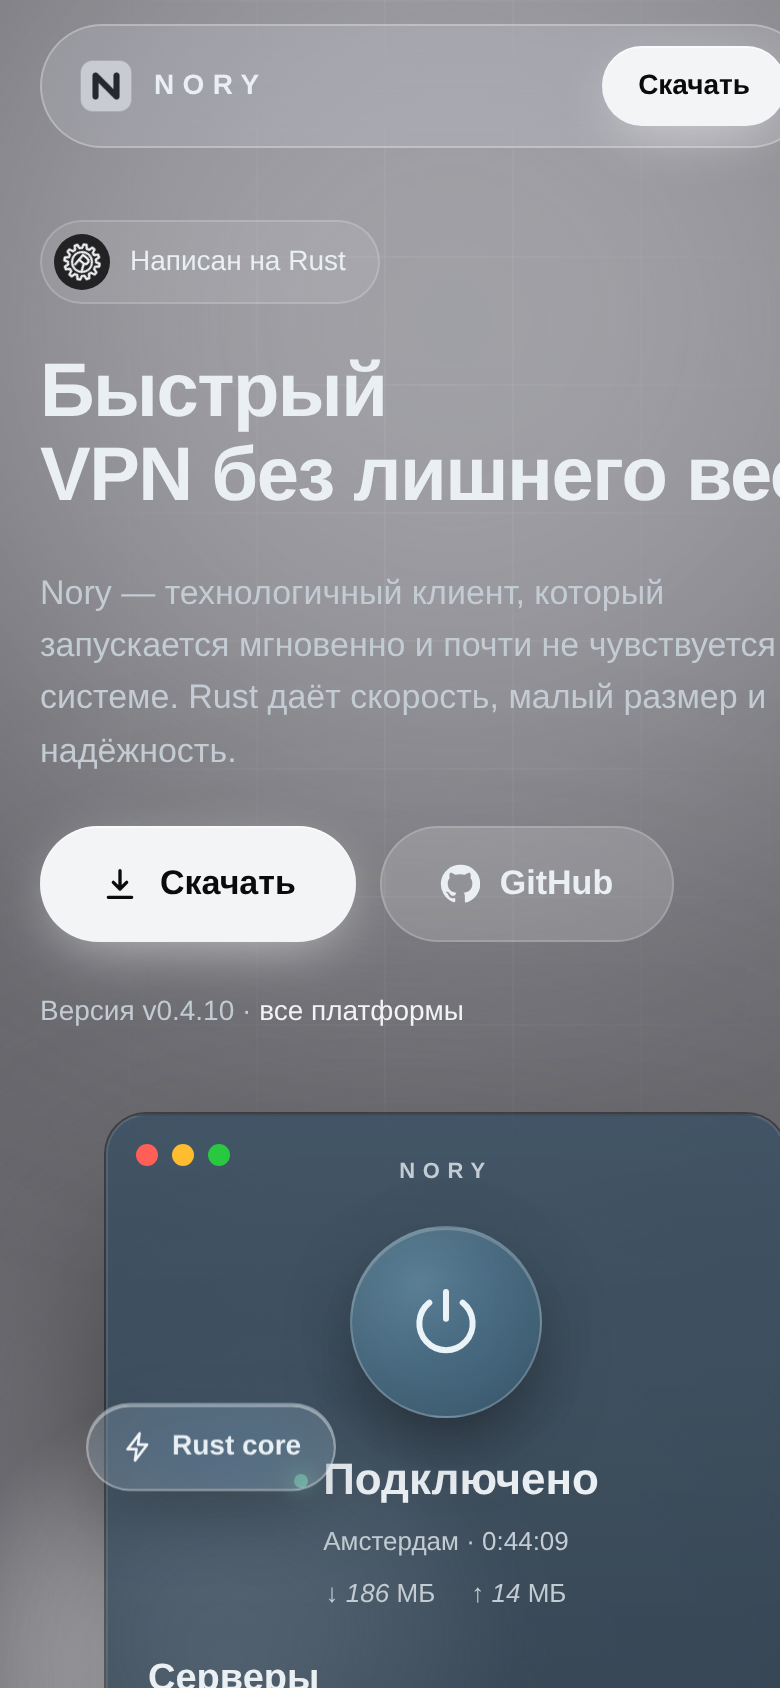
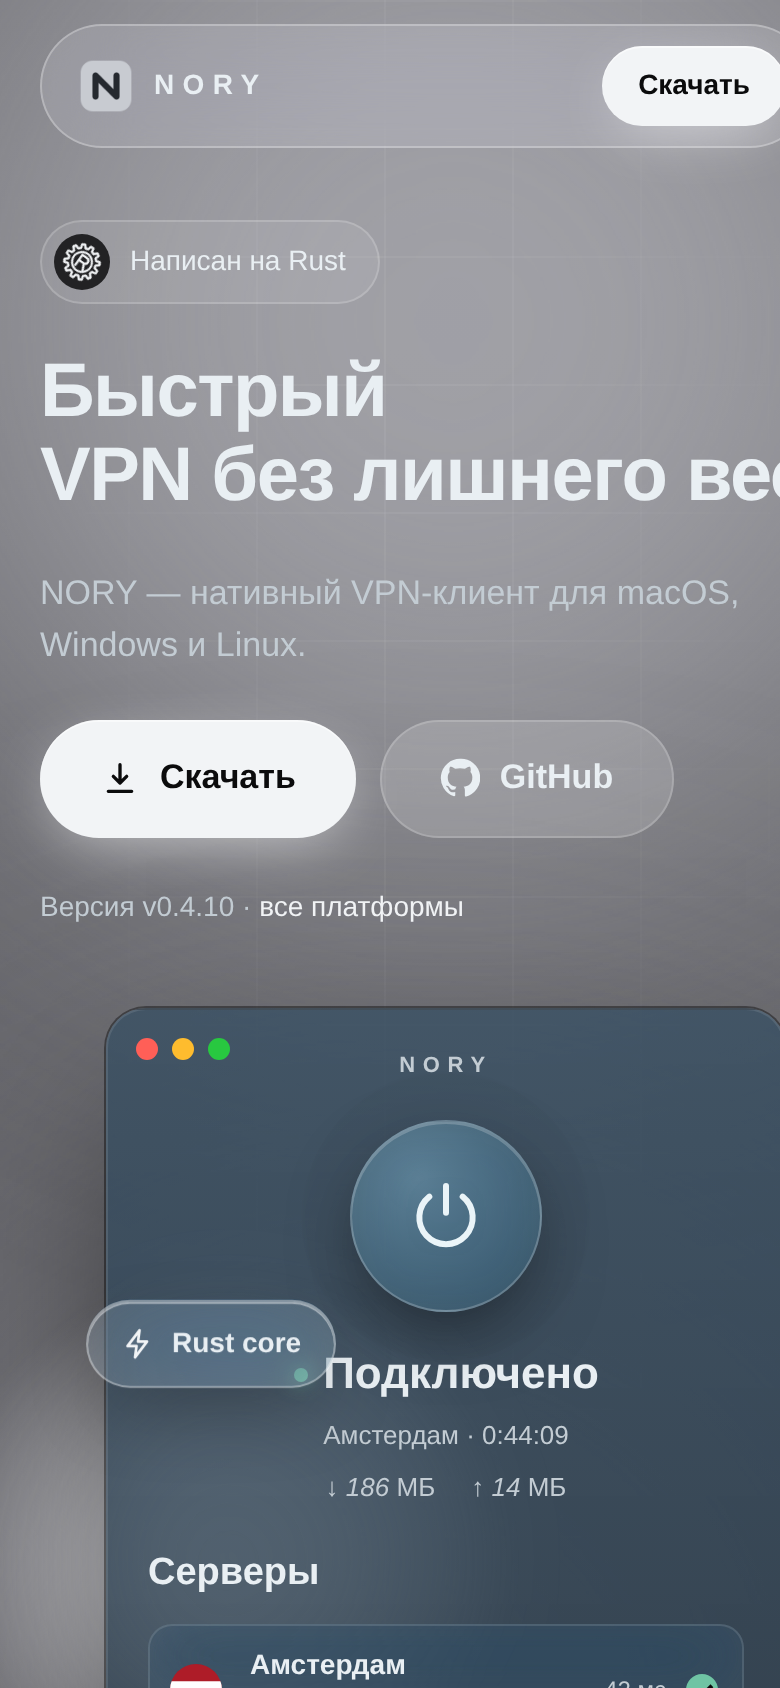
Nory landing: update hero description
Claude-Session: https://claude.ai/code/session_01U9z51qNmc1ZQZn17ozDYa4

diff --git a/nory/index.html b/nory/index.html
@@ -5,7 +5,7 @@
 <meta name="viewport" content="width=device-width, initial-scale=1, viewport-fit=cover">
 <meta name="color-scheme" content="dark">
 <title>Nory — быстрый VPN-клиент на Rust</title>
-<meta name="description" content="Nory — технологичный, быстрый и лёгкий VPN-клиент. Написан на Rust: VLESS Reality, подписки, обход VPN для приложений и сайтов.">
+<meta name="description" content="NORY — нативный VPN-клиент для macOS, Windows и Linux.">
 <link rel="icon" href="nory.png">
 <link rel="stylesheet" href="style.css">
 <script>document.documentElement.classList.add("js")</script>
@@ -33,7 +33,7 @@
   <div class="hero-text">
     <a class="chip rise" href="#rust"><span class="rust-dot"><svg viewBox="0 0 32 32"><use href="#ico-rust"/></svg></span>Написан на Rust</a>
     <h1 class="rise" style="--d:.08s">Быстрый VPN&nbsp;без&nbsp;лишнего&nbsp;веса</h1>
-    <p class="lead rise" style="--d:.16s">Nory — технологичный клиент, который запускается мгновенно и почти не чувствуется в системе. Rust даёт скорость, малый размер и надёжность.</p>
+    <p class="lead rise" style="--d:.16s">NORY — нативный VPN-клиент для macOS, Windows и Linux.</p>
     <div class="cta rise" style="--d:.24s">
       <a class="btn btn-lg" id="hero-dl" href="#download"><svg viewBox="0 0 24 24"><use href="#ico-dl"/></svg><span data-dl-label>Скачать</span></a>
       <a class="btn btn-ghost btn-lg" href="https://github.com/wasteprince/nory" target="_blank" rel="noopener"><svg viewBox="0 0 24 24"><use href="#ico-gh"/></svg>GitHub</a>
